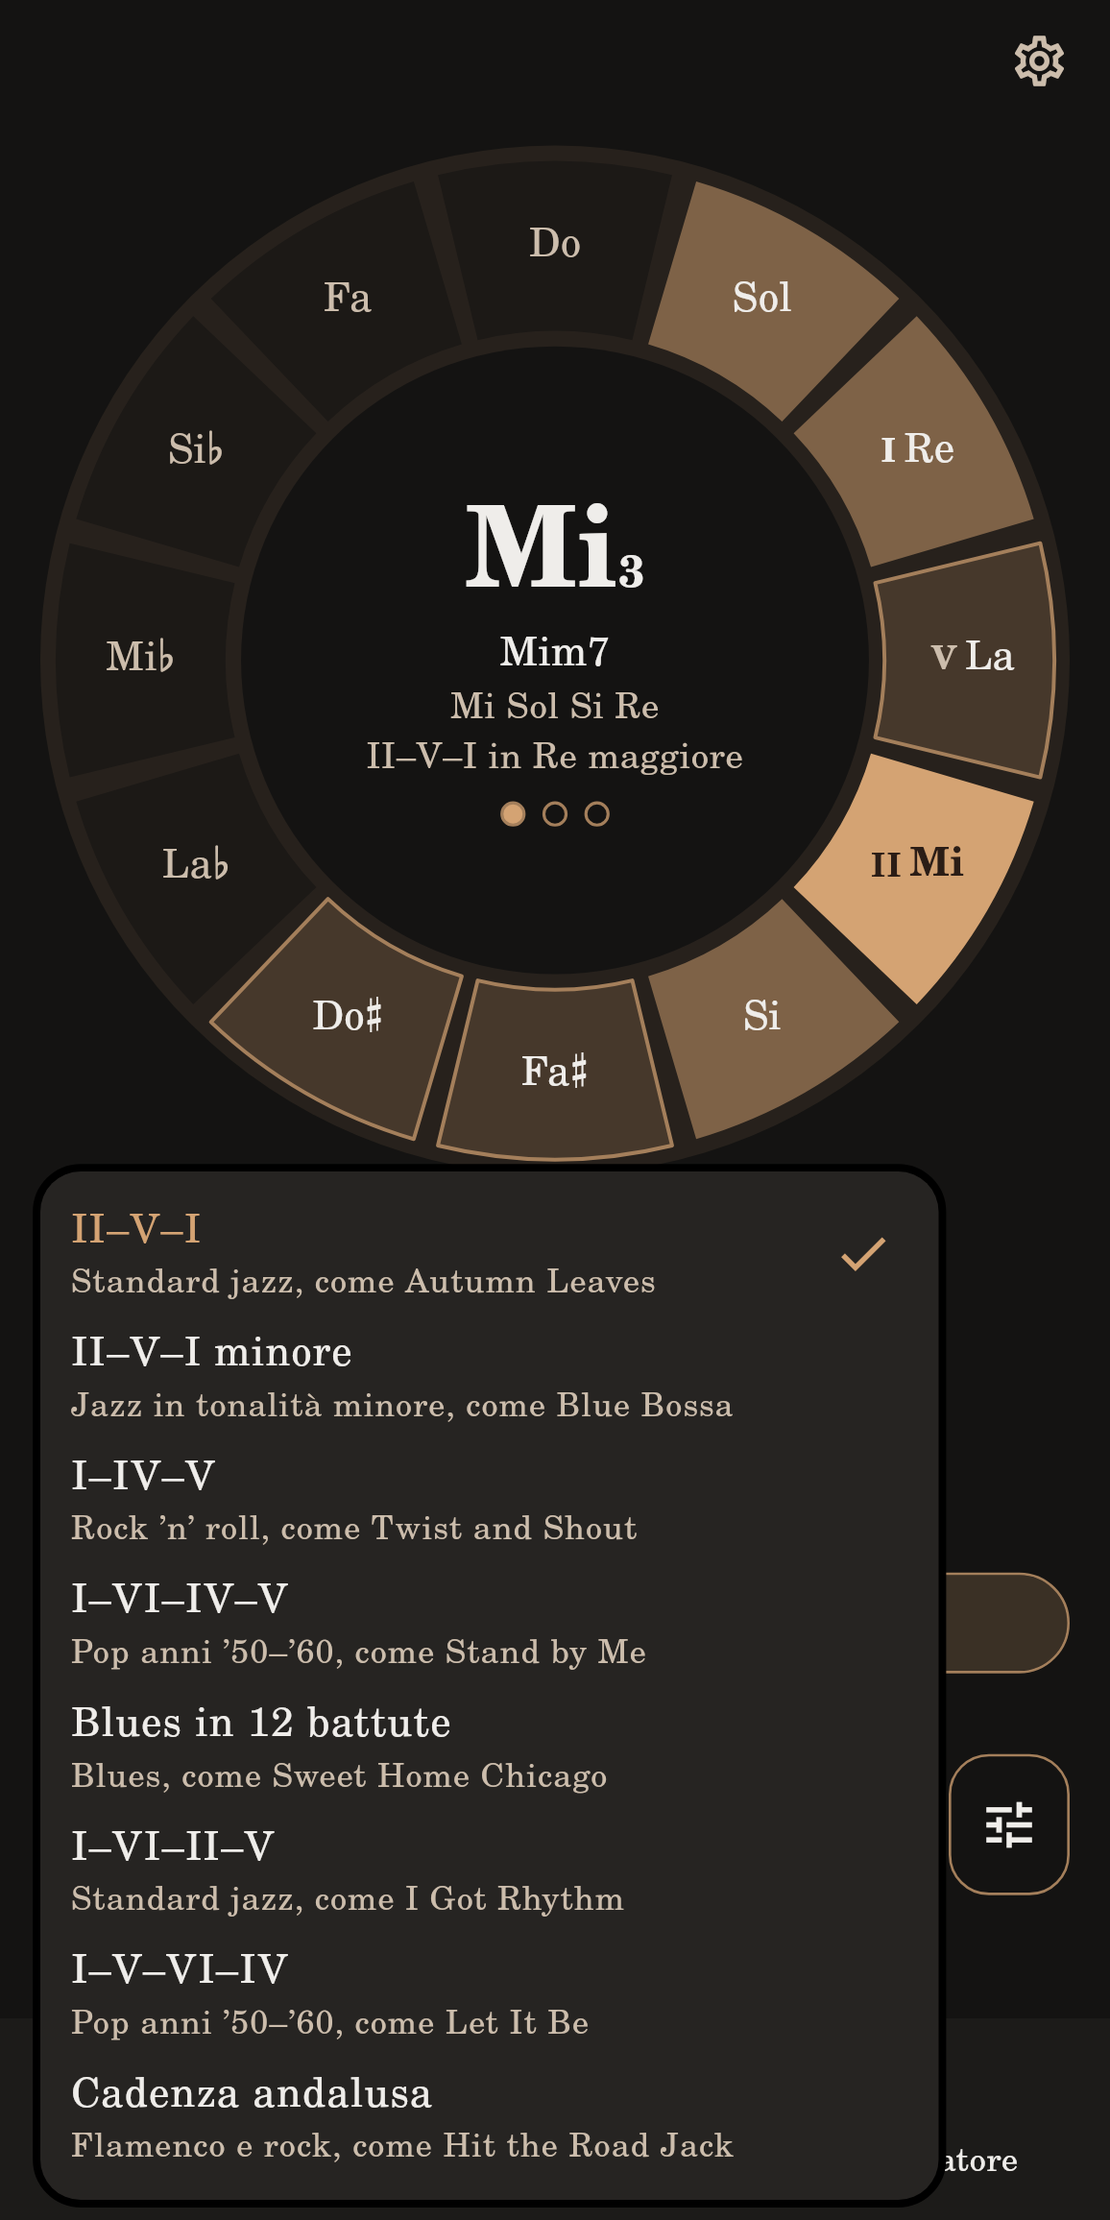
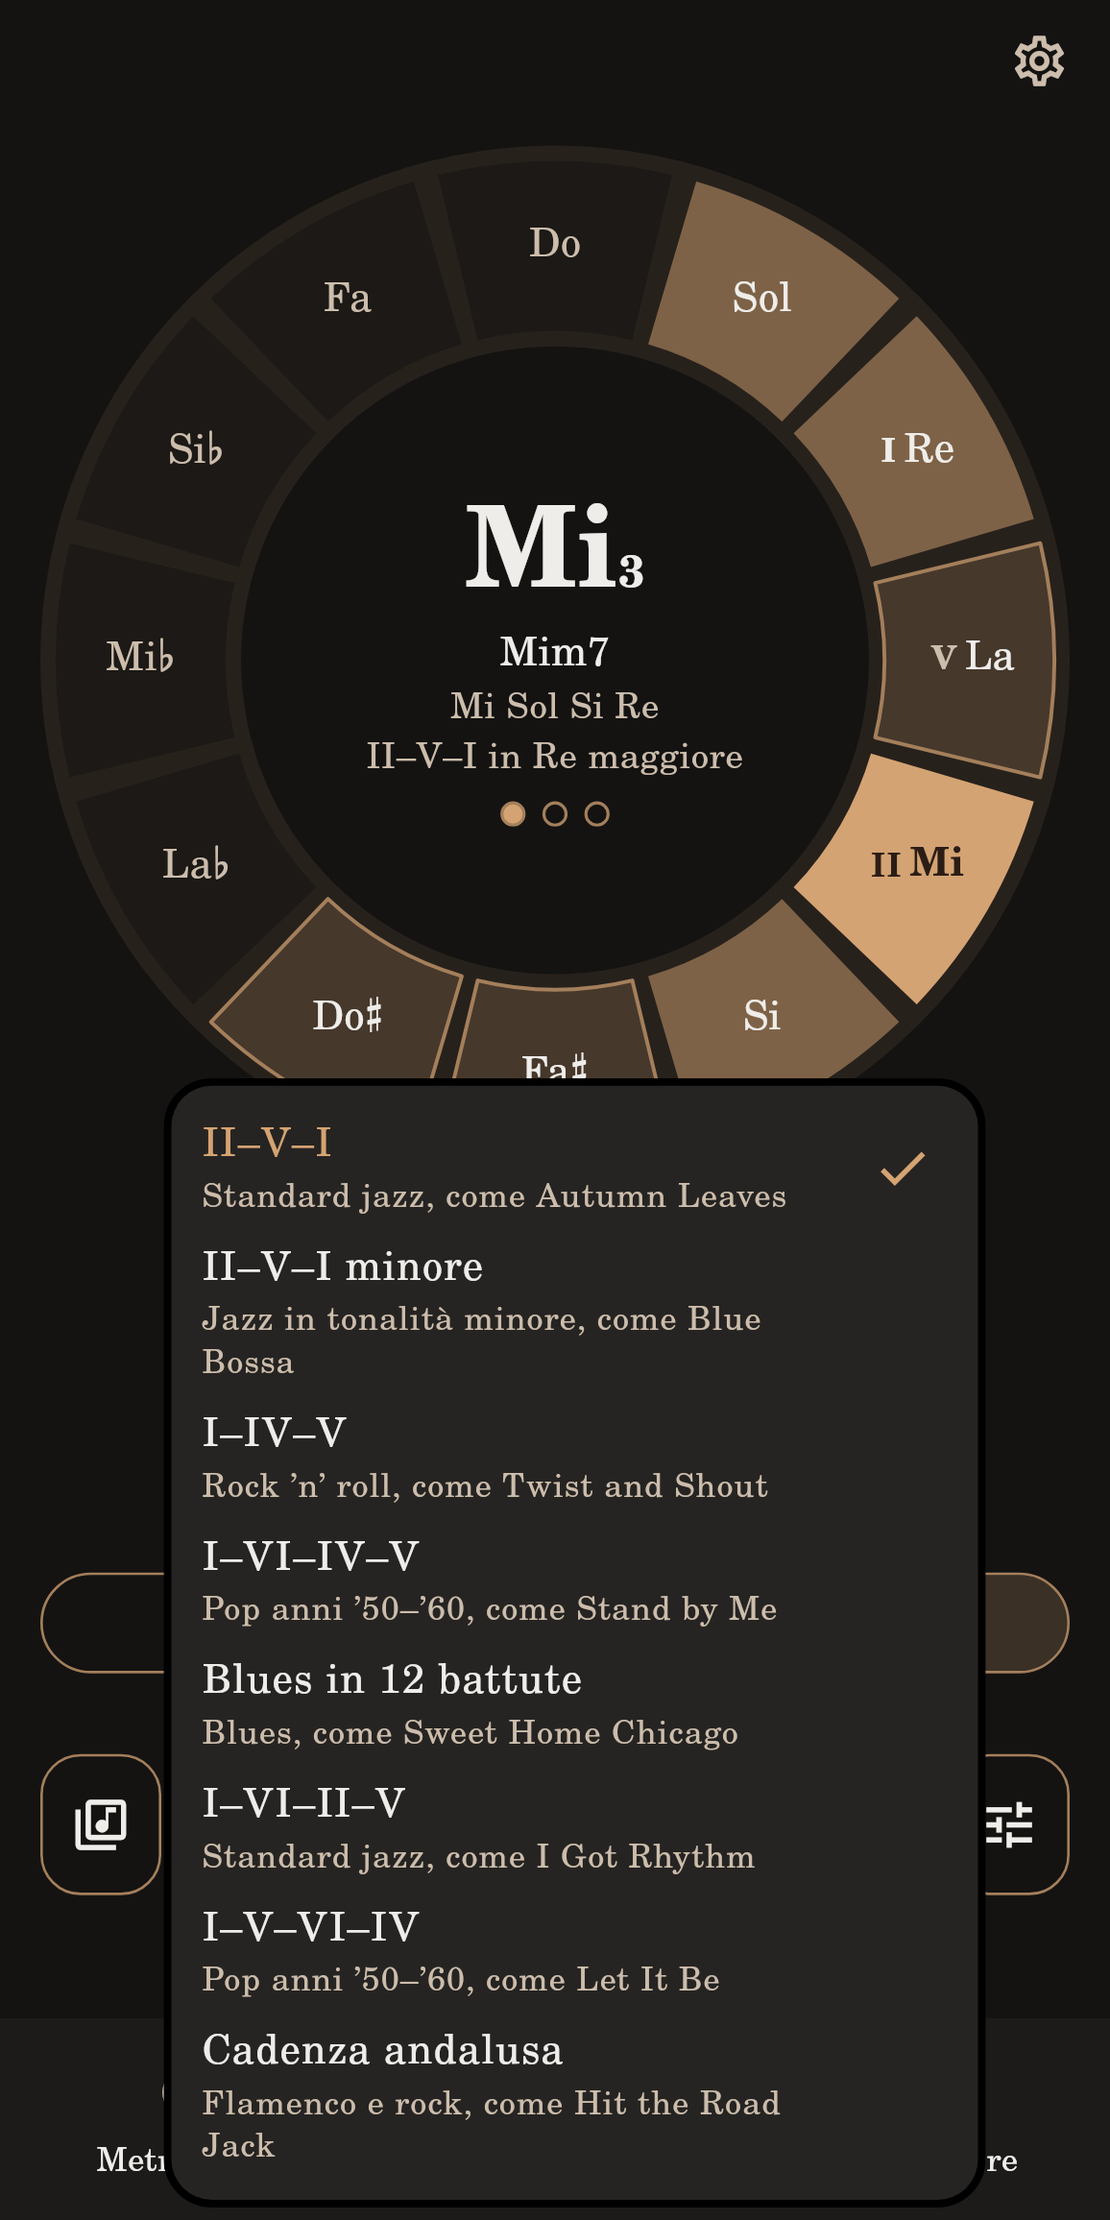
Harmony: the example songs get their own button beside the progression
In Progression mode the row reads [songs] [progression ▾] [options]: the
songs that set key, progression and tempo are in sight, still two rows
under the dial. The sound options keep the legend. Settings fields one
under the other get room between them.

Claude-Session: https://claude.ai/code/session_01EnDFfk9dK6EWAjfADPPgic

diff --git a/lib/features/tuner/drone/drone_panel.dart b/lib/features/tuner/drone/drone_panel.dart
@@ -686,7 +686,7 @@ class _VoicingSwitch extends StatelessWidget {
 typedef _ChordChoice = ({DroneVoicing voicing, ChordQuality? quality});
 
 /// Which chord (the note alone first) or which progression; the button for
-/// the sound options beside it.
+/// the sound options beside it, and before a progression the example songs.
 class _ChordMenu extends StatelessWidget {
   const _ChordMenu({required this.drone});
 
@@ -699,13 +699,24 @@ class _ChordMenu extends StatelessWidget {
     final _ChordChoice current = drone.voicing == DroneVoicing.chord
         ? (voicing: DroneVoicing.chord, quality: drone.chord)
         : alone;
+    final inProgression = drone.voicing == DroneVoicing.progression;
     return Row(
       children: [
+        // The example songs set the key, the progression and the tempo:
+        // in sight beside the progressions, not inside the options.
+        if (inProgression)
+          RowIconButton(
+            key: const Key('songsButton'),
+            icon: Icons.library_music_outlined,
+            tooltip: l10n.songsTitle,
+            leads: true,
+            onPressed: () => showSongsSheet(context),
+          ),
         Expanded(
           // The field shows just the name once chosen (the song would not
           // fit); the menu lists it with its note under it.
           child: Builder(
-            builder: (field) => drone.voicing == DroneVoicing.progression
+            builder: (field) => inProgression
                 ? LabeledField(
                     key: const Key('progressionMenu'),
                     label: l10n.progressionLabel,
@@ -811,7 +822,7 @@ Future<void> _showOptions(BuildContext context, DroneController drone) {
             mainAxisSize: MainAxisSize.min,
             children: [
               _Options(drone: drone, metronome: scope.metronome),
-              SongsAndLegendTiles(panel: context),
+              LegendTile(panel: context),
             ],
           ),
         ),

diff --git a/lib/features/tuner/drone/drone_key_sheets.dart b/lib/features/tuner/drone/drone_key_sheets.dart
@@ -247,11 +247,11 @@ String _songKey(AppLocalizations l10n, ExampleSong song, NoteNames names) {
       : l10n.droneChordMajor(tonic);
 }
 
-/// The two entries added at the end of the sound options: the legend and the
-/// example songs. [panel] is the context of the harmony tab, which outlives
-/// the options sheet that these close.
-class SongsAndLegendTiles extends StatelessWidget {
-  const SongsAndLegendTiles({super.key, required this.panel});
+/// The entry added at the end of the sound options: the legend. [panel] is
+/// the context of the harmony tab, which outlives the options sheet that it
+/// closes.
+class LegendTile extends StatelessWidget {
+  const LegendTile({super.key, required this.panel});
 
   final BuildContext panel;
 
@@ -262,15 +262,6 @@ class SongsAndLegendTiles extends StatelessWidget {
       mainAxisSize: MainAxisSize.min,
       children: [
         const Divider(height: 1),
-        ListTile(
-          leading: const Icon(Icons.library_music_outlined),
-          title: Text(l10n.songsTitle),
-          subtitle: Text(l10n.songsSubtitle),
-          onTap: () {
-            Navigator.of(context).pop();
-            if (panel.mounted) showSongsSheet(panel);
-          },
-        ),
         ListTile(
           leading: const Icon(Icons.info_outline),
           title: Text(l10n.legendButton),

diff --git a/lib/app/settings_page.dart b/lib/app/settings_page.dart
@@ -35,6 +35,8 @@ class SettingsPage extends StatelessWidget {
               // What the whole app speaks and shows.
               _Section(title: l10n.settingsGeneral),
               ListTile(
+                // The field is taller than a one-line tile: room around it.
+                contentPadding: _MenuField.tilePadding,
                 title: Text(l10n.languageLabel),
                 trailing: _MenuField<String>(
                   key: const Key('languageMenu'),
@@ -55,6 +57,8 @@ class SettingsPage extends StatelessWidget {
                 ),
               ),
               ListTile(
+                // The field is taller than a one-line tile: room around it.
+                contentPadding: _MenuField.tilePadding,
                 title: Text(l10n.noteNamesLabel),
                 trailing: _MenuField<NoteNaming>(
                   key: const Key('noteNamesMenu'),
@@ -296,6 +300,10 @@ class _MenuField<T> extends StatelessWidget {
 
   /// For words rather than numbers: "Follow the language".
   static const double wide = 176;
+
+  /// Around a tile whose only line is its title, so that two such fields
+  /// one under the other do not touch.
+  static const tilePadding = EdgeInsets.symmetric(horizontal: 16, vertical: 4);
 
   final String label;
   final double width;

diff --git a/lib/widgets/row_controls.dart b/lib/widgets/row_controls.dart
@@ -156,22 +156,27 @@ TextStyle? rowChipStyle(BuildContext context, {Color? color}) =>
 /// The button at the end of the row (the pencil, the sound options): boxed
 /// like the chips beside it, with its icon in the ink of their text (the
 /// borders carry the tab's colour), so that the row is a line of equal
-/// blocks. The gap before it is its own.
+/// blocks. The gap before it is its own, or the gap after it when it
+/// [leads] the row (the example songs).
 class RowIconButton extends StatelessWidget {
   const RowIconButton({
     super.key,
     required this.icon,
     required this.tooltip,
     required this.onPressed,
+    this.leads = false,
   });
 
   final IconData icon;
   final String tooltip;
   final VoidCallback onPressed;
+  final bool leads;
 
   @override
   Widget build(BuildContext context) => Padding(
-    padding: const EdgeInsetsDirectional.only(start: 4),
+    padding: leads
+        ? const EdgeInsetsDirectional.only(end: 4)
+        : const EdgeInsetsDirectional.only(start: 4),
     child: RowChip(
       label: Icon(
         icon,

diff --git a/test/ux2_dev_b_test.dart b/test/ux2_dev_b_test.dart
@@ -97,10 +97,11 @@ void main() {
       ),
     );
     await tester.pumpAndSettle();
-    // The songs are in the sound options.
-    await tester.tap(find.byTooltip('Sound options'));
+    // The songs have their own button, before the progression menu.
+    expect(find.byTooltip('Example songs'), findsNothing, reason: 'chord');
+    await tester.tap(find.text('Progression'));
     await tester.pumpAndSettle();
-    await tester.tap(find.text('Example songs'));
+    await tester.tap(find.byTooltip('Example songs'));
     await tester.pumpAndSettle();
     await tester.tap(find.text('Blue Bossa'));
     await tester.pumpAndSettle();

diff --git a/test/accessibility_test.dart b/test/accessibility_test.dart
@@ -74,6 +74,11 @@ void main() {
         await tester.tap(_harmonyTab.first);
         await tester.pumpAndSettle();
         await expectAccessible(tester);
+        // A progression adds the button of the example songs to the row.
+        await tester.tap(find.text('Progression'));
+        await tester.pumpAndSettle();
+        expect(find.byTooltip('Example songs'), findsOneWidget);
+        await expectAccessible(tester);
 
         await tester.tap(_metronomeTab);
         await tester.pumpAndSettle();

diff --git a/docs/manuale-utente.md b/docs/manuale-utente.md
@@ -33,8 +33,8 @@ Dodici tasti intorno a un cerchio (di norma nel cerchio delle quinte; nelle impo
 - **Tocca un tasto** per sentirlo su un vero pianoforte, a tempo con il metronomo. **Toccalo di nuovo**, o tocca il centro del cerchio, per fermarlo; toccando il centro da fermo suona di nuovo l'ultima nota. Armonia e metronomo possono suonare insieme o da soli.
 - **Tieni premuto Do♯ o Fa♯** per scriverli Re♭ o Sol♭.
 - **Accordo**: la nota da sola (la prima voce del menu), oppure maggiore, minore, settima di dominante, settima maggiore (maj7), settima minore (m7), semidiminuito (m7♭5), diminuito o quarta sospesa (sus4), costruito sulla nota. **Progressione**: un accordo per battuta, nella tonalità della nota toccata: II–V–I (maggiore e minore, a settime), I–IV–V, I–VI–IV–V, I–V–VI–IV, la cadenza andalusa (in tonalità minore), I–VI–II–V e il blues di dodici battute. Quelle jazz sono a settime, le altre a triadi. Il menu dice cos'è ognuna: *Standard jazz, come Autumn Leaves* (II–V–I), *Jazz in tonalità minore, come Blue Bossa*, *Rock ’n’ roll, come Twist and Shout* (I–IV–V), *Pop anni ’50–’60, come Stand by Me* (I–VI–IV–V) e *Blues, come Sweet Home Chicago*. Mentre l'Armonia suona, il cerchio attenua le note che non senti; con una progressione attenua le note fuori dalla tonalità e scrive in piccolo i numeri romani (II, V, I) sulle note su cui stanno; restano fermi: leggi II, poi vai al V. Tocca un numero per vedere cosa significa. Al centro, una fila di pallini mostra le battute della progressione, quello pieno è l'accordo che suona.
-- **Brani d'esempio**: in fondo alle opzioni del suono; toccandone uno imposti in un colpo tonalità, progressione e tempo.
-- **Opzioni del suono** (il pulsante in fondo alla terza riga): il **tono continuo** (un suono fisso al posto del pianoforte ribattuto) e lo **stile**: accordo battuto una volta a battuta, a ogni tempo, oppure arpeggiato, secondo tempo e misura del metronomo. La fondamentale suona sempre nell'ottava 3 (La3 = 220 Hz in numerazione scientifica), che l'altoparlante del telefono rende bene; le altre note dell'accordo stanno vicine sopra di lei, come le suonerebbe la mano di un pianista. In fondo, **Brani d'esempio** e **Legenda e gradi**, che spiega i colori del cerchio e i numeri.
+- **Brani d'esempio**: il pulsante a sinistra del menu delle progressioni (in modalità Progressione); toccandone uno imposti in un colpo tonalità, progressione e tempo.
+- **Opzioni del suono** (il pulsante in fondo alla terza riga): il **tono continuo** (un suono fisso al posto del pianoforte ribattuto) e lo **stile**: accordo battuto una volta a battuta, a ogni tempo, oppure arpeggiato, secondo tempo e misura del metronomo. La fondamentale suona sempre nell'ottava 3 (La3 = 220 Hz in numerazione scientifica), che l'altoparlante del telefono rende bene; le altre note dell'accordo stanno vicine sopra di lei, come le suonerebbe la mano di un pianista. In fondo, **Legenda e gradi**, che spiega i colori del cerchio e i numeri.
 - **Partire insieme**: se il metronomo sta già suonando, l'armonia entra sulla battuta successiva del metronomo e, fino ad allora, al centro del cerchio compaiono i secondi che mancano. Lo stesso vale per il metronomo, se lo avvii mentre l'armonia suona.
 
 ## Accordatore

diff --git a/docs/user-guide.md b/docs/user-guide.md
@@ -33,8 +33,8 @@ Twelve keys round a dial (by default in the circle of fifths; you can ask for se
 - **Touch a key** to play it on a real piano, in time with the metronome. **Touch it again**, or the middle of the dial, to stop; touching the middle while it is stopped plays the last note again. The harmony and the metronome can play together or alone.
 - **Hold C♯ or F♯** to write them D♭ or G♭.
 - **Chord**: the note alone (the first entry of the menu), or major, minor, dominant 7, maj7, m7, half-diminished (m7♭5), diminished or sus4, built on the note. **Progression**: one chord per bar, in the key of the note you touched: II–V–I (major and minor, in sevenths), I–IV–V, I–VI–IV–V, I–V–VI–IV, the Andalusian cadence (in a minor key), I–VI–II–V and the twelve-bar blues. The jazz ones are in sevenths, the others in triads. The menu says what each is: *Jazz standard, like Autumn Leaves* (II–V–I), *Jazz in a minor key, like Blue Bossa*, *Rock ’n’ roll, like Twist and Shout* (I–IV–V), *’50s–’60s pop, like Stand by Me* (I–VI–IV–V) and *Blues, like Sweet Home Chicago*. While Harmony sounds, the dial fades the notes you do not hear; with a progression it fades the notes outside the key and writes the Roman numerals (II, V, I) small on the notes they stand on, and they stay put: read II, then go to V. Touch a numeral to see what it stands for. In the middle of the dial a row of dots shows the bars of the progression, the filled one being the chord sounding.
-- **Example songs**: at the bottom of the sound options; touching one sets the key, the progression and the tempo in one go.
-- **Sound options** (the button at the end of the third row): **held tone** (a steady tone instead of the piano struck again and again) and **style**: the chord struck once a bar, on every beat, or played as an arpeggio, at the metronome's tempo and time signature. The root always sounds in octave 3 (A3 = 220 Hz), which the phone's own speaker plays well; the rest of the chord sits close together above it, as a pianist's hand plays it. At the bottom, **Example songs** and **Legend and degrees**, which explains the colours of the dial and the numerals.
+- **Example songs**: the button left of the progression menu (in Progression mode); touching one sets the key, the progression and the tempo in one go.
+- **Sound options** (the button at the end of the third row): **held tone** (a steady tone instead of the piano struck again and again) and **style**: the chord struck once a bar, on every beat, or played as an arpeggio, at the metronome's tempo and time signature. The root always sounds in octave 3 (A3 = 220 Hz), which the phone's own speaker plays well; the rest of the chord sits close together above it, as a pianist's hand plays it. At the bottom, **Legend and degrees**, which explains the colours of the dial and the numerals.
 - **Starting together**: if the metronome is already playing, the harmony comes in on the metronome's next bar line, and until then the middle of the dial shows the seconds to go. The same goes for the metronome when you start it while the harmony plays.
 
 ## Tuner

diff --git a/docs/style.md b/docs/style.md
@@ -8,7 +8,7 @@ The metronome, the harmony and the tuner do different things, but they must look
 
 - The dial is the same size, in the same place, on all three tabs; its middle is the button and says the state in the same two sizes (display, then caption).
 - Under it, the same three rows. The first is empty on the metronome and the harmony, so that their controls sit lower, near the thumb, and holds the cents bar on the tuner, next to the strobe. The second is a pill or a switch: on the metronome a pill with two halves that open menus (the time signature, and what fills the beat: note figures drawn by `NoteIcon`: a quarter, two eighths beamed, a beamed triplet under a 3, four sixteenths beamed, and the swung ones with the word "Swing" beside them); on the harmony Chord / Progression; on the tuner Chromatic | instrument. The third is the row of controls: TAP over half the row with −, + and the pencil on the metronome; the chord or progression menu and the options on the harmony; the reference A on the tuner.
-- The row of controls is built from the same pieces everywhere (`lib/widgets/row_controls.dart`): a **field with its name on the border** (the reference A, the chord or progression menu; `LabeledField(showLabel: false)` hides the name on the border but keeps it for screen readers), **chips** (TAP, −, +) and an **icon button** at the end (the sound options, the pencil). A new control is made from these; if none fits, change them for everyone.
+- The row of controls is built from the same pieces everywhere (`lib/widgets/row_controls.dart`): a **field with its name on the border** (the reference A, the chord or progression menu; `LabeledField(showLabel: false)` hides the name on the border but keeps it for screen readers), **chips** (TAP, −, +) and an **icon button** at the end (the sound options, the pencil), or at the start (`RowIconButton(leads: true)`: the example songs before the progression menu). A new control is made from these; if none fits, change them for everyone.
 - **A button that is to be pressed is filled.** The buttons that step a value (−, +) are Material `OutlinedButton`s; TAP, which you play rather than set, is a `FilledButton.tonal` in `primaryContainer` with its text in `onPrimaryContainer` (`RowChip(filled: true)`), so that it reads as pressable. The pair keeps the contrast checked by `theme_test.dart` and `accessibility_test.dart`.
 - − and + step a value, the pencil types it or chooses from a list, a touch on the field opens the same choice. Where holding − or + runs the value (the metronome's tempo), the chips have no tooltip, which a hold would open: their name is a semantics label. A touch counts as a hold after `kLongPressTimeout`, like every long press on the phone.
 

diff --git a/README.md b/README.md
@@ -22,7 +22,7 @@ The three tabs are **Metronome**, **Harmony** and **Tuner**, and the app opens o
 ### Harmony
 
 - Twelve note keys round a dial (by fifths or in semitones, as you choose in the settings): touch one to play it on a real piano, in time with the metronome, and touch it again, or the middle of the dial, to stop. Hold C♯ or F♯ to write them D♭ or G♭.
-- A **Chord** of eight kinds (major, minor, dominant 7, maj7, m7, half-diminished m7♭5, diminished, sus4), or the note alone (the first entry of the same menu), or a **Progression** of one chord per bar: II–V–I (major and minor, in sevenths), I–IV–V, I–VI–IV–V, I–V–VI–IV, the Andalusian cadence, I–VI–II–V and the twelve-bar blues, in the key of the note touched. The menu names each with a well-known song (Autumn Leaves, Blue Bossa, Twist and Shout, Stand by Me, Sweet Home Chicago). The example songs, in the sound options, set key, progression and tempo in one tap. The Roman numerals of a progression sit on the keys they stand on; touch one to read what it means.
+- A **Chord** of eight kinds (major, minor, dominant 7, maj7, m7, half-diminished m7♭5, diminished, sus4), or the note alone (the first entry of the same menu), or a **Progression** of one chord per bar: II–V–I (major and minor, in sevenths), I–IV–V, I–VI–IV–V, I–V–VI–IV, the Andalusian cadence, I–VI–II–V and the twelve-bar blues, in the key of the note touched. The menu names each with a well-known song (Autumn Leaves, Blue Bossa, Twist and Shout, Stand by Me, Sweet Home Chicago). The example songs, a button beside the progression menu, set key, progression and tempo in one tap. The Roman numerals of a progression sit on the keys they stand on; touch one to read what it means.
 - Held for the bar, struck on every beat or arpeggiated; the sound options (the button at the end of the row) also offer a held tone instead of the piano. The root is always in octave 3 (A3 = 220 Hz, C3 131 Hz), low enough to sit with a bass, high enough for any instrument and for the phone's own speaker; the rest of the chord sits close together above it, as a pianist's hand plays it. While Harmony sounds, the notes not heard fade on the dial.
 - If the metronome is already playing, the harmony comes in on the metronome's next bar line, with a countdown in the middle of the dial; the same goes for the metronome when the harmony is already playing.
 
